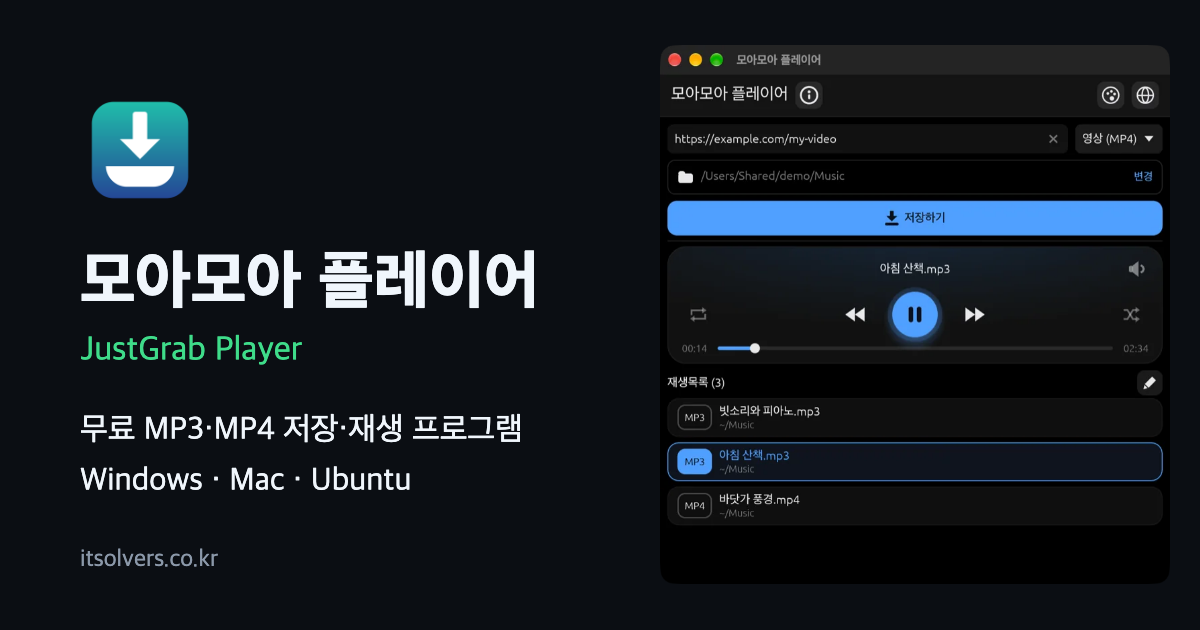
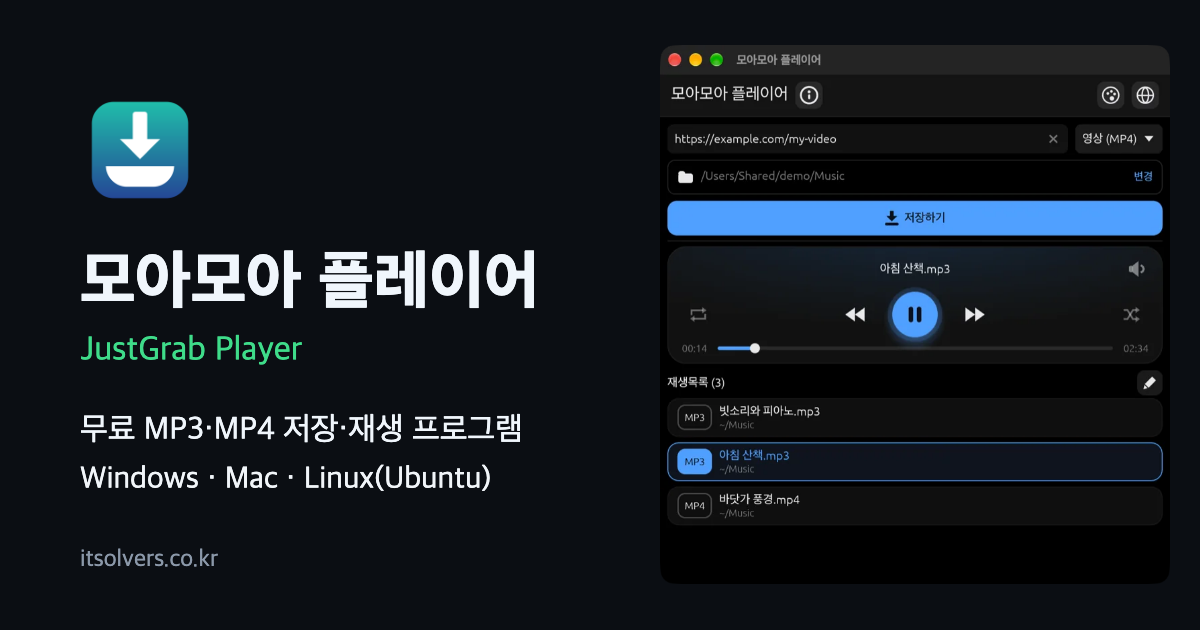
모아모아 플레이어의 운영체제 표기를 Linux(Ubuntu)로 변경

Changed region(s): [[0.0617, 0.7238, 0.4008, 0.7841]]

diff --git a/insights/justgrab-player.html b/insights/justgrab-player.html
@@ -29,7 +29,7 @@
   <meta charset="utf-8">
   <meta name="viewport" content="width=device-width, initial-scale=1">
   <meta name="author" content="아이티해결단 (대표 이혁)">
-  <meta name="description" content="영상 링크를 붙여넣어 MP3·MP4로 저장하고 재생목록으로 듣는 무료 프로그램. Windows·Mac·Ubuntu용, 광고·회원가입 없이 내 컴퓨터에서만 써요.">
+  <meta name="description" content="영상 링크를 붙여넣어 MP3·MP4로 저장하고 재생목록으로 듣는 무료 프로그램. Windows·Mac·Linux(Ubuntu)용, 광고·회원가입 없이 내 컴퓨터에서만 써요.">
   <title>모아모아 플레이어 – 무료 MP3·MP4 저장·재생 프로그램 | 아이티해결단</title>
   <meta name="robots" content="index, follow, max-image-preview:large">
   <link rel="canonical" href="https://itsolvers.co.kr/insights/justgrab-player">
@@ -40,7 +40,7 @@
   <meta property="og:locale" content="ko_KR">
   <meta property="og:site_name" content="아이티해결단 (IT Solvers)">
   <meta property="og:title" content="모아모아 플레이어 – 무료 MP3·MP4 저장·재생 프로그램 | 아이티해결단">
-  <meta property="og:description" content="영상 링크를 붙여넣어 MP3·MP4로 저장하고 재생목록으로 듣는 무료 프로그램. Windows·Mac·Ubuntu용, 광고·회원가입 없이 내 컴퓨터에서만 써요.">
+  <meta property="og:description" content="영상 링크를 붙여넣어 MP3·MP4로 저장하고 재생목록으로 듣는 무료 프로그램. Windows·Mac·Linux(Ubuntu)용, 광고·회원가입 없이 내 컴퓨터에서만 써요.">
   <meta property="og:url" content="https://itsolvers.co.kr/insights/justgrab-player">
   <meta property="og:image" content="https://itsolvers.co.kr/images/justgrab/og.png">
   <meta property="og:image:width" content="1200">
@@ -48,7 +48,7 @@
   <meta property="og:image:alt" content="모아모아 플레이어: 무료 MP3·MP4 저장·재생 프로그램">
   <meta name="twitter:card" content="summary_large_image">
   <meta name="twitter:title" content="모아모아 플레이어 – 무료 MP3·MP4 저장·재생 프로그램 | 아이티해결단">
-  <meta name="twitter:description" content="영상 링크를 붙여넣어 MP3·MP4로 저장하고 재생목록으로 듣는 무료 프로그램. Windows·Mac·Ubuntu용, 광고·회원가입 없이 내 컴퓨터에서만 써요.">
+  <meta name="twitter:description" content="영상 링크를 붙여넣어 MP3·MP4로 저장하고 재생목록으로 듣는 무료 프로그램. Windows·Mac·Linux(Ubuntu)용, 광고·회원가입 없이 내 컴퓨터에서만 써요.">
   <meta name="twitter:image" content="https://itsolvers.co.kr/images/justgrab/og.png">
   <link rel="stylesheet" href="../css/styles.css?v=20261127-1">
   <style>
@@ -116,7 +116,7 @@
   "@context": "https://schema.org",
   "@type": "WebPage",
   "name": "모아모아 플레이어 – 무료 MP3·MP4 저장·재생 프로그램 | 아이티해결단",
-  "description": "영상 링크를 붙여넣어 MP3·MP4로 저장하고 재생목록으로 듣는 무료 프로그램. Windows·Mac·Ubuntu용, 광고·회원가입 없이 내 컴퓨터에서만 써요.",
+  "description": "영상 링크를 붙여넣어 MP3·MP4로 저장하고 재생목록으로 듣는 무료 프로그램. Windows·Mac·Linux(Ubuntu)용, 광고·회원가입 없이 내 컴퓨터에서만 써요.",
   "url": "https://itsolvers.co.kr/insights/justgrab-player",
   "mainEntityOfPage": "https://itsolvers.co.kr/insights/justgrab-player",
   "inLanguage": "ko-KR",
@@ -126,7 +126,7 @@
     "@type": "SoftwareApplication",
     "name": "모아모아 플레이어",
     "alternateName": "JustGrab Player",
-    "description": "영상 링크를 붙여넣어 MP3·MP4로 저장하고 재생목록으로 듣는 무료 프로그램. Windows·Mac·Ubuntu용, 광고·회원가입 없이 내 컴퓨터에서만 써요.",
+    "description": "영상 링크를 붙여넣어 MP3·MP4로 저장하고 재생목록으로 듣는 무료 프로그램. Windows·Mac·Linux(Ubuntu)용, 광고·회원가입 없이 내 컴퓨터에서만 써요.",
     "applicationCategory": "MultimediaApplication",
     "operatingSystem": "Windows (64bit), macOS (Apple Silicon), Ubuntu 22.04 이상 (64bit)",
     "isAccessibleForFree": true,
@@ -255,7 +255,7 @@
     <p class="sub">링크를 넣어 소리와 영상을 저장하고, 모아서 듣는 무료 프로그램이에요. 광고도 회원가입도 없어요.</p>
 
     <p><a class="button button-primary" href="#download">다운로드 안내 보기</a></p>
-    <ul class="os-list" aria-label="지원하는 운영체제"><li><svg class="os-icon" aria-hidden="true"><use href="#os-windows"/></svg>Windows</li><li><svg class="os-icon" aria-hidden="true"><use href="#os-mac"/></svg>Mac</li><li><svg class="os-icon" aria-hidden="true"><use href="#os-ubuntu"/></svg>Ubuntu</li></ul>
+    <ul class="os-list" aria-label="지원하는 운영체제"><li><svg class="os-icon" aria-hidden="true"><use href="#os-windows"/></svg>Windows</li><li><svg class="os-icon" aria-hidden="true"><use href="#os-mac"/></svg>Mac</li><li><svg class="os-icon" aria-hidden="true"><use href="#os-ubuntu"/></svg>Linux(Ubuntu)</li></ul>
     <p class="muted">무료로 내려받을 수 있어요.</p>
 
     <section class="card">
@@ -360,7 +360,7 @@
     </section>
 
     <section class="card" id="download">
-      <h2>Windows·Mac·Ubuntu 다운로드</h2>
+      <h2>Windows·Mac·Linux(Ubuntu) 다운로드</h2>
       <p>내 컴퓨터에 맞는 파일을 받아 주세요. 파일은 GitHub에서 내려받으며, 이전 버전과 파일 확인값(SHA-256)은 <a href="https://github.com/it-solvers/yt-mp3/releases" target="_blank" rel="noopener">릴리스 페이지 ↗</a>에 있어요.</p>
       <p><strong>설치하거나 처음 실행할 때 경고가 나올 수 있어요.</strong> 무료로 배포하는 프로그램이라 코드 서명 인증서가 없어서, Windows, Mac, Ubuntu가 "확인되지 않은 앱"이나 "안전하지 않을 수 있음" 같은 경고를 보여줄 수 있어요. 이 페이지에서 받은 파일이 맞는지 확인한 뒤 아래 설치 방법을 따라 주세요.</p>
 
@@ -413,9 +413,9 @@
       </div>
 
       <div class="os">
-      <h3 class="os-title"><svg class="os-icon" aria-hidden="true"><use href="#os-ubuntu"/></svg>Ubuntu</h3>
+      <h3 class="os-title"><svg class="os-icon" aria-hidden="true"><use href="#os-ubuntu"/></svg>Linux(Ubuntu)</h3>
       <p>Ubuntu 22.04 이상, Intel·AMD 64bit · 약 222MB<br><span class="muted">JustGrab-Player-1.0.75-amd64.deb</span></p>
-      <p><a class="button button-primary" href="https://github.com/it-solvers/yt-mp3/releases/download/v1.0.75/JustGrab-Player-1.0.75-amd64.deb" target="_blank" rel="noopener">Ubuntu용 다운로드 ↗</a></p>
+      <p><a class="button button-primary" href="https://github.com/it-solvers/yt-mp3/releases/download/v1.0.75/JustGrab-Player-1.0.75-amd64.deb" target="_blank" rel="noopener">Linux(Ubuntu)용 다운로드 ↗</a></p>
       <ol class="install-steps">
         <li class="small">
           <p><span class="step-no">1</span><span>내려받은 파일을 열어요. 확인 창이 나오면 이 페이지에서 받은 파일인지 확인하고 [실행]을 눌러요.</span></p>

diff --git a/index.html b/index.html
@@ -328,7 +328,7 @@
                 <div class="insight-grid">
                     <a class="insight-card" href="insights/justgrab-player" target="_blank" rel="noopener"><img class="shot" src="images/justgrab/intro-audio.webp" alt="모아모아 플레이어에서 MP3를 재생하는 화면" width="760" height="803" loading="lazy">
                         <h3>모아모아 플레이어 <span class="insight-link-cue" aria-hidden="true">↗</span></h3>
-                        <p>링크를 넣어 소리와 영상을 저장하고 재생목록으로 듣는 무료 프로그램이에요. Windows·Mac·Ubuntu용이며 광고와 회원가입이 없어요.</p>
+                        <p>링크를 넣어 소리와 영상을 저장하고 재생목록으로 듣는 무료 프로그램이에요. Windows·Mac·Linux(Ubuntu)용이며 광고와 회원가입이 없어요.</p>
                     </a>
                     <a class="insight-card" href="insights/soundstaff" target="_blank" rel="noopener"><img class="shot" src="images/soundstaff/card.webp" alt="SoundStaff가 만든 악보 화면" width="760" height="756" loading="lazy">
                         <h3>SoundStaff <span class="insight-link-cue" aria-hidden="true">↗</span></h3>
